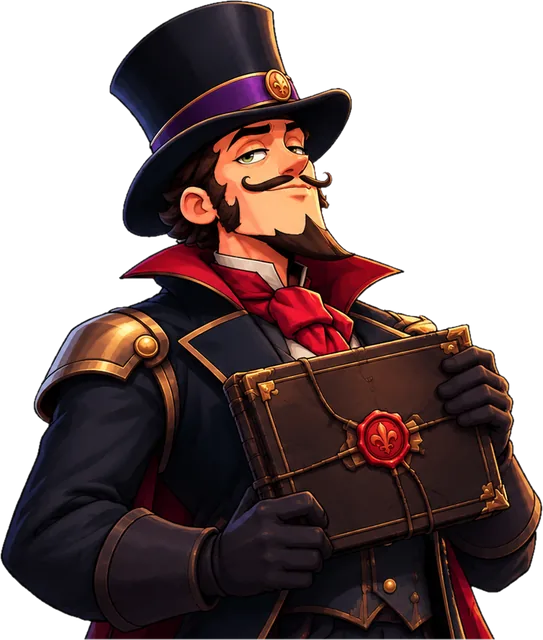
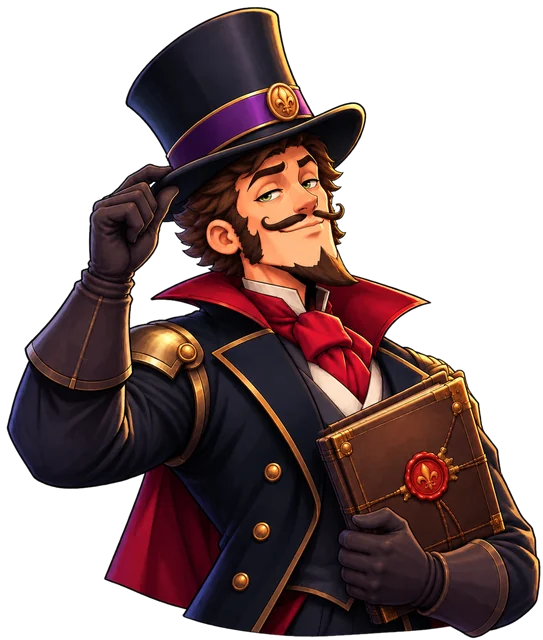
Carta semanal: asset de aprobación, ausencia prolongada y lectura sin prisas; campo de respuesta sin autocorrección
- assets/character/lunes-aprobacion.webp: nuevo retrato de Sir Edwards con el gesto del sombrero (RGBA, 543x640, fondo recortado).
- Carta: variante «ausencia» (3 semanas o más sin ver una carta), con veredicto y comentario propios y sin juzgar ninguna semana;
  cierre automático proporcional al texto (entre 6 y 13 s) en lugar de un tiempo fijo.
- #ans-input y el campo de Duelo: autocapitalize/autocorrect/spellcheck desactivados y etiqueta accesible.

Claude-Session: https://claude.ai/code/session_01U7oWRjrVzSHatcDRyHVPg2

diff --git a/src/ui/encargos-intro.js b/src/ui/encargos-intro.js
@@ -26,7 +26,8 @@ const SEQEncargosIntro = (function () {
     mirada: 'assets/character/presentacion-mirada.webp',
     aprobacion: 'assets/character/lunes-aprobacion.webp',
     reproche: 'assets/character/lunes-reproche.webp',
-    incorporacion: 'assets/character/presentacion-expediente.webp'
+    incorporacion: 'assets/character/presentacion-expediente.webp',
+    ausencia: 'assets/character/presentacion-mirada.webp'
   };
 
   function get(k) { try { var v = localStorage.getItem(k); if (v !== null) return v; } catch (e) {} return mem[k] == null ? null : mem[k]; }
@@ -74,6 +75,16 @@ const SEQEncargosIntro = (function () {
     try { return SEQEncargos.weekIdOf(SEQEncargos.weekIndexAt(new Date(+m[1], +m[2] - 1, +m[3], 12).getTime())); } catch (e) { return null; }
   }
 
+  // Semanas desde la última carta vista o, si no hay ninguna, desde la presentación (la más reciente de las dos).
+  function awayWeeks(idx, introWeek) {
+    var last = null;
+    [get(K_MONDAY), introWeek].forEach(function (id) {
+      var i = id ? SEQEncargos.weekIndexOfId(id) : null;
+      if (typeof i === 'number' && (last === null || i > last)) last = i;
+    });
+    return last === null ? 0 : core().weeksAway(idx, last);
+  }
+
   // Al llegar a Inicio (switchTab) y, una vez, al arrancar. Se espera un instante a que Inicio se asiente y se vuelve a comprobar.
   function onHome() {
     if (!core() || typeof ENCARGOS_INTRO === 'undefined') return;
@@ -88,7 +99,7 @@ const SEQEncargosIntro = (function () {
         // Semana de incorporación: la de la gran presentación (sale de su fecha). No se evalúa ni recibe carta.
         var introWeek = introWeekId();
         if (core().shouldShowMonday({ seen: true, introWeek: introWeek, weekId: weekId, lastShown: get(K_MONDAY),
-          onHome: base.onHome, inGame: base.inGame, blocked: base.blocked })) startMonday(weekId, SEQEncargos.weekIdOf(idx - 1), introWeek, now.getDay() === 1);
+          onHome: base.onHome, inGame: base.inGame, blocked: base.blocked })) startMonday(weekId, SEQEncargos.weekIdOf(idx - 1), introWeek, now.getDay() === 1, awayWeeks(idx, introWeek));
       } catch (e) { /* nunca debe impedir jugar */ }
     }, 700);
   }
@@ -250,10 +261,10 @@ const SEQEncargosIntro = (function () {
   }
 
   // ---- carta de los lunes -------------------------------------------------------------------------------------------
-  function startMonday(weekId, lastWeekId, introWeek, isMonday) {
+  function startMonday(weekId, lastWeekId, introWeek, isMonday, away) {
     var C = core(), M = ENCARGOS_INTRO.monday;
     var claimed = (typeof store === 'object' && store && store.encargosClaimed) || [];
-    var kind = C.mondayKind(claimed, lastWeekId, introWeek);
+    var kind = C.mondayKind(claimed, lastWeekId, introWeek, away);
     var lines = [
       C.mondayOpen(M, isMonday),
       pick('lunes_v_' + kind, C.mondayVerdictPool(M, kind)),
@@ -272,8 +283,9 @@ const SEQEncargosIntro = (function () {
       '</div>';
     var ps = el.querySelectorAll('.enc-monday-line'), go = el.querySelector('.enc-monday-go'), close = el.querySelector('.enc-monday-close');
     var offsets = [0, 1100, 2300, 3800], timers = [], all = false, ended = false;
+    var stay = C.readMs(lines);   // tiempo de lectura proporcional al texto; ver SEQEncargosIntroCore.readMs
     function later(fn, ms) { timers.push(setTimeout(fn, ms)); }
-    function revealAll() { all = true; timers.forEach(clearTimeout); timers = []; for (var i = 0; i < ps.length; i++) ps[i].classList.add('in'); later(function () { end(false); }, 4500); }
+    function revealAll() { all = true; timers.forEach(clearTimeout); timers = []; for (var i = 0; i < ps.length; i++) ps[i].classList.add('in'); later(function () { end(false); }, stay); }
     function end(toEncargos) {
       if (ended) return;
       ended = true; timers.forEach(clearTimeout);
@@ -293,7 +305,7 @@ const SEQEncargosIntro = (function () {
       void el.offsetWidth; el.classList.add('is-on');
       go.focus({ preventScroll: true });
       for (var i = 0; i < ps.length; i++) (function (i) { later(function () { ps[i].classList.add('in'); }, offsets[i]); })(i);
-      later(function () { all = true; later(function () { end(false); }, 4500); }, offsets[offsets.length - 1] + 400);
+      later(function () { all = true; later(function () { end(false); }, stay); }, offsets[offsets.length - 1] + 400);
     });
   }
 

diff --git a/src/utils/encargos-intro-core.js b/src/utils/encargos-intro-core.js
@@ -50,10 +50,19 @@ const SEQEncargosIntroCore = (function () {
     return true;
   }
 
+  // Semanas sin ver a Sir Edwards: distancia entre la semana actual y la última carta vista (o, si no hay ninguna, la de la
+  // presentación). Con ABSENCE_WEEKS o más, la carta es de «has vuelto»: no se juzga una semana concreta, se recibe al que regresa.
+  var ABSENCE_WEEKS = 3;
+  function weeksAway(idx, lastIdx) {
+    if (typeof idx !== 'number' || typeof lastIdx !== 'number' || !isFinite(idx) || !isFinite(lastIdx)) return 0;
+    return Math.max(0, idx - lastIdx);
+  }
+
   // Aprobación = los cuatro encargos de la semana pasada cobrados (3 semanales + Gran Encargo); cualquier otra cosa, reproche.
-  // Si la semana pasada fue la de incorporación no se evalúa: 'incorporacion'.
-  function mondayKind(claimed, lastWeekId, introWeek) {
+  // Si la semana pasada fue la de incorporación no se evalúa: 'incorporacion'. Tras una ausencia larga: 'ausencia'.
+  function mondayKind(claimed, lastWeekId, introWeek, away) {
     if (introWeek && introWeek === lastWeekId) return 'incorporacion';
+    if (away >= ABSENCE_WEEKS) return 'ausencia';
     var list = Array.isArray(claimed) ? claimed : [], m = 0, g = 0;
     for (var i = 0; i < list.length; i++) {
       var k = String(list[i]);
@@ -66,12 +75,20 @@ const SEQEncargosIntroCore = (function () {
   // Líneas de la carta: la apertura fija («Es lunes.» / «Nueva semana.») y tres bolsas rotativas independientes (las elige quien
   // llama con pickRotatingPhrase): veredicto y comentario según la variante, y un cierre común a las tres.
   function mondayOpen(phrases, isMonday) { return isMonday === false ? phrases.openOther : phrases.open; }
-  function variantOf(map, kind) { return kind === 'aprobacion' ? map.aprobacion : kind === 'incorporacion' ? map.incorporacion : map.reproche; }
+  function variantOf(map, kind) { return kind === 'aprobacion' ? map.aprobacion : kind === 'incorporacion' ? map.incorporacion : kind === 'ausencia' ? map.ausencia : map.reproche; }
   function mondayVerdictPool(phrases, kind) { return variantOf(phrases.verdict, kind); }
   function mondayCommentPool(phrases, kind) { return variantOf(phrases.comment, kind); }
   function mondayClosePool(phrases) { return phrases.close; }
 
-  return { cleanName: cleanName, classify: classify, shouldShowIntro: shouldShowIntro, shouldShowMonday: shouldShowMonday,
+  // Cuánto se queda la carta antes de cerrarse sola, una vez mostradas todas las líneas: proporcional a lo que hay que leer
+  // (unos 38 ms por carácter más un margen), entre 6 y 13 s. Quien quiera irse antes, toca fuera o pulsa «Cerrar».
+  function readMs(lines) {
+    var chars = 0, list = Array.isArray(lines) ? lines : [];
+    for (var i = 0; i < list.length; i++) chars += String(list[i] == null ? '' : list[i]).length;
+    return Math.min(13000, Math.max(6000, 2200 + chars * 38));
+  }
+
+  return { cleanName: cleanName, weeksAway: weeksAway, ABSENCE_WEEKS: ABSENCE_WEEKS, readMs: readMs, classify: classify, shouldShowIntro: shouldShowIntro, shouldShowMonday: shouldShowMonday,
     mondayKind: mondayKind, mondayOpen: mondayOpen, mondayVerdictPool: mondayVerdictPool, mondayCommentPool: mondayCommentPool,
     mondayClosePool: mondayClosePool };
 })();

diff --git a/src/data/encargos-intro-phrases.js b/src/data/encargos-intro-phrases.js
@@ -2,7 +2,8 @@
 // Todas rotan con pickRotatingPhrase (bolsa persistente: no se repite ninguna hasta haberlas visto todas).
 //   · result: la línea que sigue a «Una partida terminada.» según cómo fue la PRIMERA partida (o Duelo/Reto) del jugador.
 //   · monday: la carta semanal (sale la primera vez que se abre Inicio en una semana nueva; abre «Es lunes.» si es lunes, «Nueva semana.» si no;
-//     luego veredicto y comentario según la semana pasada (aprobación / reproche / incorporación) y un cierre común: tres bolsas rotativas
+//     luego veredicto y comentario según la semana pasada (aprobación / reproche / incorporación) o según una ausencia de 3 semanas o más
+//     (ausencia), y un cierre común: tres bolsas rotativas
 //     independientes. «Cuatro de cuatro» solo aparece en el veredicto de aprobación.
 // Sin emojis. Las claves de result coinciden con SEQEncargosIntroCore.classify().
 
@@ -85,6 +86,15 @@ const ENCARGOS_INTRO = {
         'Tu primera semana fue de prueba. No cuenta, de momento.',
         'La semana pasada fue un ensayo. Se perdona; es lo que tiene ser nuevo.',
         'Lo de la semana pasada fue una presentación, no un examen. Disfrútalo mientras dure.'
+      ],
+      // Regreso tras varias semanas sin abrir Inicio: no se juzga una semana concreta, se recibe al que vuelve.
+      ausencia: [
+        'Vaya. Has vuelto. Mi libreta te daba por desaparecido.',
+        'Semanas sin noticias tuyas. Empezaba a acostumbrarme al silencio.',
+        'Tu expediente ha acumulado polvo. Es lo único que ha acumulado.',
+        'Qué ausencia tan notable. Es lo más notable que has hecho últimamente.',
+        'Cuánto tiempo. No he contado las semanas. Bueno, sí las he contado.',
+        'Reaparece quien daba por perdido hasta su propio expediente.'
       ]
     },
     // 2) Comentario de Sir Edwards.
@@ -118,6 +128,14 @@ const ENCARGOS_INTRO = {
         'A partir de hoy, tu expediente cuenta de verdad.',
         'Se acabó el periodo de cortesía. Empieza el de observación.',
         'Desde hoy cada encargo cuenta. Y cada excusa también.'
+      ],
+      ausencia: [
+        'Los encargos de las semanas perdidas han caducado, como las promesas de volver pronto.',
+        'No te preguntaré dónde estabas. Lo imagino, y no me convence.',
+        'Borrón y cuenta nueva. Solo esta vez, y solo porque me aburría.',
+        'Considera esto una segunda oportunidad. Las terceras no existen.',
+        'Ni un reproche. Hoy. No te acostumbres.',
+        'Bienvenido de nuevo. Lo digo con la misma sinceridad con que me despedí.'
       ]
     },
     // 3) Cierre, común a las tres variantes: la semana que empieza.

diff --git a/src/online/duels.js b/src/online/duels.js
@@ -746,7 +746,7 @@
       h += '</div>';
     } else {
       // Respuesta escrita (cálculos, Lucidez y enigma). El valor que se está escribiendo sobrevive a los repintados (render()).
-      h += '<div class="seq-d-write" data-idx="' + num(idx) + '"><input type="text" id="seq-d-ans" class="seq-d-ans" maxlength="120" autocomplete="off" autocapitalize="off" spellcheck="false"' +
+      h += '<div class="seq-d-write" data-idx="' + num(idx) + '"><input type="text" id="seq-d-ans" class="seq-d-ans" maxlength="120" autocomplete="off" autocapitalize="off" autocorrect="off" spellcheck="false" aria-label="Tu respuesta"' +
         (info.numeric ? ' inputmode="numeric" pattern="[0-9]*"' : '') + ' placeholder="' + (info.numeric ? 'Resultado' : 'Tu respuesta') + '"' +
         (mine ? ' disabled value="' + esc(String(mine.respuesta || '')) + '"' : ' onkeydown="if(event.key===\'Enter\')SEQDuels.answerText()"') + '>' +
         '<button type="button" class="btn btn-primary" id="seq-d-send"' + (mine ? ' disabled' : '') + ' onclick="SEQDuels.answerText()">Responder</button></div>';

diff --git a/index.html b/index.html
@@ -689,7 +689,7 @@ try {
           <span id="q-text">Cargando pregunta...</span>
         </div>
 
-        <input type="text" id="ans-input" autocomplete="off" placeholder="Escribe tu respuesta…" />
+        <input type="text" id="ans-input" autocomplete="off" autocapitalize="off" autocorrect="off" spellcheck="false" enterkeyhint="done" aria-label="Tu respuesta" placeholder="Escribe tu respuesta…" />
 
         <div id="choice-options" role="group" aria-label="Opciones de respuesta"></div>
 
